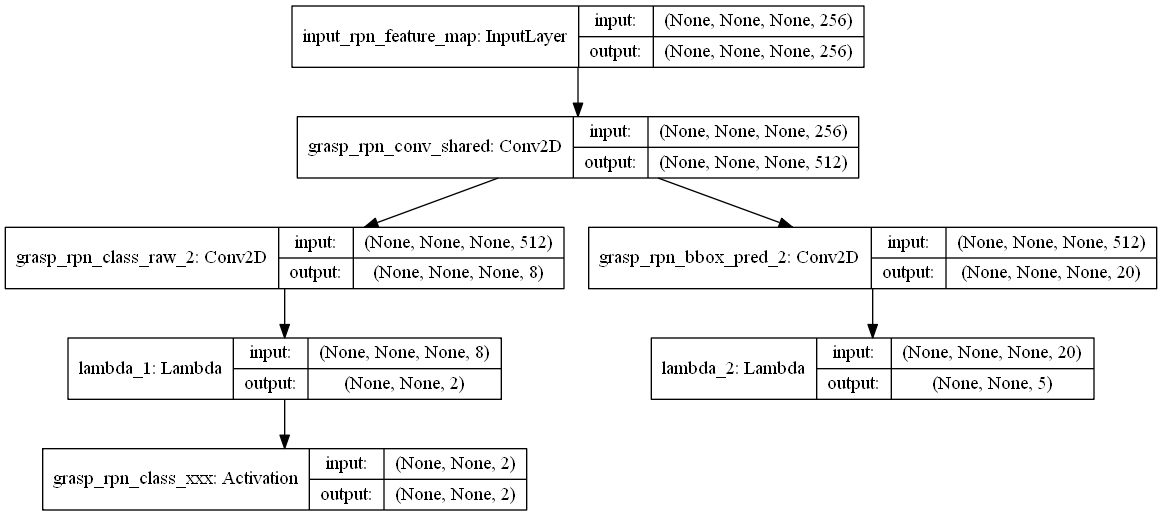
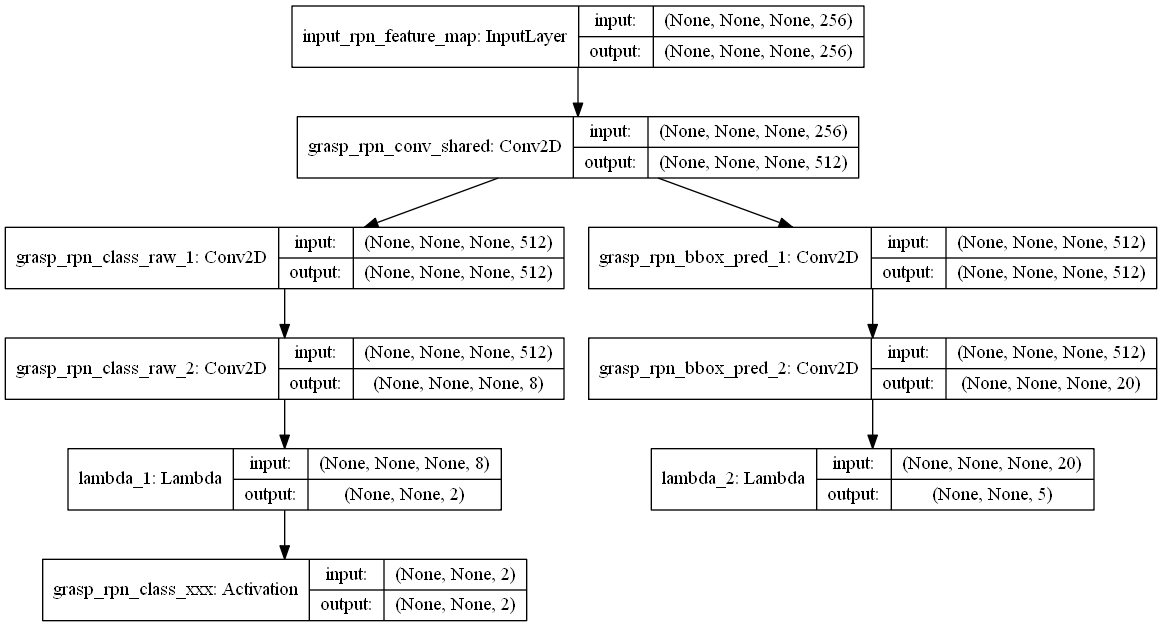
July 14, 2020 - code update for colab

Changed region(s): [[0.0, 0.0, 1.0, 0.9922]]

diff --git a/grasping_points.py b/grasping_points.py
@@ -27,8 +27,8 @@ class GraspingPointsConfig(Config):
     BACKBONE = "resnet50"
     GPU_COUNT = 1
     IMAGES_PER_GPU = 12
-    STEPS_PER_EPOCH = 51 # STEPS_PER_EPOCH * batch_size = data size
-    VALIDATION_STEPS = 11
+    STEPS_PER_EPOCH = 412 # STEPS_PER_EPOCH * batch_size = data size
+    VALIDATION_STEPS = 88
     NUM_CLASSES = 1 + 1 # Object and background classes
     # IMAGE_MIN_DIM = 288
     # IMAGE_MAX_DIM = 384
@@ -60,7 +60,7 @@ class GraspingPointsConfig(Config):
     RPN_OHEM_NUM_SAMPLES = 320
     LEARNING_RATE = 0.002
     LEARNING_MOMENTUM = 0.9
-    NUM_AUGMENTATIONS = 5
+    NUM_AUGMENTATIONS = 8
     WEIGHT_DECAY = 0.0002
     # NUM_AUGMENTATIONS = 5
 
@@ -585,8 +585,11 @@ class GraspingPointsDataset(Dataset):
         probabilities = np.delete(probabilities, invalid_y, axis=0)
 
         sorting_ix = np.argsort(probabilities[:, 1])[::-1][:10]
-        # top_boxes = all_boxes[probabilities[:,1] > 0.50]
-        # top_box_probabilities = probabilities[probabilities[:,1] > 0.50]
+        #
+        # top_boxes = all_boxes[probabilities[:,1] > 0.10]
+        # top_box_probabilities = probabilities[probabilities[:,1] > 0.10]
+        # top_boxes = all_boxes[probabilities[:,1] > 0.30]
+        # top_box_probabilities = probabilities[probabilities[:,1] > 0.30]
         top_boxes = all_boxes[sorting_ix]
         top_box_probabilities = probabilities[sorting_ix]
         top_boxes, top_box_probabilities, pre_nms_boxes, pre_nms_scores = self.orient_box_nms(top_boxes, top_box_probabilities)
@@ -633,7 +636,7 @@ mode = "grasping_points"
 
 training_dataset = GraspingPointsDataset()
 # training_dataset.construct_jacquard_dataset()
-training_dataset.load_dataset()
+training_dataset.load_dataset(augmentation=True)
 # training_dataset.load_dataset(dataset_dir='../../../Datasets/jacquard_dataset_resized', augmentation=True)
 training_dataset.prepare()
 # channel_means = np.array(training_dataset.get_channel_means())
@@ -641,12 +644,12 @@ training_dataset.prepare()
 
 validating_dataset = GraspingPointsDataset()
 # validating_dataset.load_dataset(dataset_dir='../../../Datasets/jacquard_dataset_resized', type='val_set', augmentation=True)
-validating_dataset.load_dataset(type='val_set')
+validating_dataset.load_dataset(type='val_set', augmentation=True)
 validating_dataset.prepare()
 
 testing_dataset = GraspingPointsDataset()
 # testing_dataset.load_dataset(dataset_dir='../../../Datasets/jacquard_dataset_resized', type='test_set', augmentation=True)
-testing_dataset.load_dataset(type='test_set')
+testing_dataset.load_dataset(type='test_set', augmentation=True)
 testing_dataset.prepare()
 
 # Create model in training mode
@@ -659,13 +662,13 @@ tf.keras.utils.plot_model(
 
 # Load weights
 # weights_path = MASKRCNN_MODEL_PATH
-weights_path = os.path.join(MODEL_DIR, "mask_rcnn_coco.h5")
-# weights_path = os.path.join(MODEL_DIR, 'train_#1b',"mask_rcnn_grasping_points_0088.h5")
-# model.load_weights(weights_path, by_name=True)
+# weights_path = os.path.join(MODEL_DIR, "mask_rcnn_coco.h5")
+weights_path = os.path.join(MODEL_DIR, 'train_#4',"mask_rcnn_grasping_points_0300.h5")
+model.load_weights(weights_path, by_name=True)
 # print("Loading weights ", weights_path)
-model.load_weights(weights_path, by_name=True,
-                       exclude=["conv1", "rpn_model", "rpn_class_logits",
-                                "rpn_class ", "rpn_bbox "])
+# model.load_weights(weights_path, by_name=True,
+#                        exclude=["conv1", "rpn_model", "rpn_class_logits",
+#                                 "rpn_class ", "rpn_bbox "])
 
 model.train(training_dataset, validating_dataset,
                learning_rate=config.LEARNING_RATE,
@@ -701,30 +704,31 @@ model.keras_model.save_weights(model_path)
 #                               config=inference_config, task="grasping_points")
 #
 # # Load weights
-# weights_path = os.path.join(MODEL_DIR, 'train_#1d',"mask_rcnn_grasping_points_0044.h5")
-# # weights_path = os.path.join(MODEL_DIR, 'train_id#29',"mask_rcnn_grasping_points_0011.h5")
+# # weights_path = os.path.join(MODEL_DIR, 'train_#5',"mask_rcnn_grasping_points_0444.h5")
+# weights_path = os.path.join(MODEL_DIR, 'train_#5',"mask_rcnn_grasping_points_0300.h5")
 # print("Loading weights ", weights_path)
 # model.load_weights(weights_path, by_name=True)
-# image_ids = random.choices(validating_dataset.image_ids, k=25)
+# dataset = validating_dataset
+# image_ids = random.choices(dataset.image_ids, k=25)
 # for image_id in image_ids:
 #     # validating_dataset.load_image(image_id, validating_dataset.image_info[image_id]['augmentation'])
 #     image, image_meta, gt_class_id, gt_bbox, gt_mask =\
-#         modellib.load_image_gt(validating_dataset, inference_config, image_id, use_mini_mask=False, mode='grasping_points')
+#         modellib.load_image_gt(dataset, inference_config, image_id, use_mini_mask=False, mode='grasping_points')
 #     results = model.detect([image], verbose=1, task=mode)
 #     r = results[0]
-#     post_nms_predictions, pre_nms_predictions = validating_dataset.refine_results(r, model.anchors)
+#     post_nms_predictions, pre_nms_predictions = dataset.refine_results(r, model.anchors)
 #     fig, (ax1, ax2) = plt.subplots(1, 2)
 #     ax1.imshow(image)
 #     ax2.imshow(image)
 #     for i, rect in enumerate(pre_nms_predictions):
-#         rect = validating_dataset.bbox_convert_to_four_vertices([rect])
+#         rect = dataset.bbox_convert_to_four_vertices([rect])
 #         p = patches.Polygon(rect[0], linewidth=1,edgecolor='r',facecolor='none')
 #         ax1.add_patch(p)
 #     for i, rect2 in enumerate(post_nms_predictions):
-#         rect2 = validating_dataset.bbox_convert_to_four_vertices([rect2])
+#         rect2 = dataset.bbox_convert_to_four_vertices([rect2])
 #         p2 = patches.Polygon(rect2[0], linewidth=1,edgecolor='g',facecolor='none')
 #         ax2.add_patch(p2)
-#     plt.title(validating_dataset.image_info[image_id]['path'])
+#     plt.title(dataset.image_info[image_id]['path'])
 #     plt.show(block=False)
 #
 # import code;

diff --git a/mrcnn/model.py b/mrcnn/model.py
@@ -1093,12 +1093,12 @@ def grasping_rpn_graph(feature_map, anchors_per_location, anchor_stride):
                        strides=anchor_stride,
                        name='grasp_rpn_conv_shared')(feature_map)
 
-    # classification_1 = KL.Conv2D(512, (3, 3), padding='same', activation='relu',
-    #               strides=anchor_stride,
-    #               name='grasp_rpn_class_raw_1')(shared)
+    classification_1 = KL.Conv2D(512, (3, 3), padding='same', activation='relu',
+                  strides=anchor_stride,
+                  name='grasp_rpn_class_raw_1')(shared)
     # Anchor Score. [batch, height, width, anchors per location * 2].
     classification_2 = KL.Conv2D(2 * anchors_per_location, (1, 1), padding='valid',
-                  activation='linear', name='grasp_rpn_class_raw_2')(shared)
+                  activation='linear', name='grasp_rpn_class_raw_2')(classification_1)
 
     # Reshape to [batch, anchors, 2]
     rpn_class_logits = KL.Lambda(
@@ -1110,11 +1110,11 @@ def grasping_rpn_graph(feature_map, anchors_per_location, anchor_stride):
 
     # Bounding box refinement. [batch, H, W, anchors per location * depth]
     # where depth is [dx, dy, log(dw), log(dh), dtheta]
-    # regression_1 = KL.Conv2D(512, (3, 3), padding='same', activation='relu',
-    #                    strides=anchor_stride,
-    #                    name='grasp_rpn_bbox_pred_1')(shared)
+    regression_1 = KL.Conv2D(512, (3, 3), padding='same', activation='relu',
+                       strides=anchor_stride,
+                       name='grasp_rpn_bbox_pred_1')(shared)
     regression_2 = KL.Conv2D(anchors_per_location * 5, (1, 1), padding="valid",
-                  activation='linear', name='grasp_rpn_bbox_pred_2')(shared)
+                  activation='linear', name='grasp_rpn_bbox_pred_2')(regression_1)
 
     # Reshape to [batch, anchors, 5]
     rpn_bbox = KL.Lambda(lambda t: tf.reshape(t, [tf.shape(t)[0], -1, 5]))(regression_2)
@@ -1385,19 +1385,19 @@ def smooth_l1_loss(y_true, y_pred):
 
 def rpn_combined_loss_graph_zhang_paper(config, target_bbox, target_class, rpn_bbox, rpn_class_logits, valid_anchor_mask):
     # Filtering anchors that cross the image boundary
-    valid_anchor_indices = tf.where(valid_anchor_mask)
-
-    target_bbox = tf.gather(target_bbox, valid_anchor_indices, axis=1)
-    target_bbox = tf.squeeze(target_bbox, axis=2)
-
-    target_class = tf.gather(target_class, valid_anchor_indices, axis=1)
-    target_class = tf.squeeze(target_class, axis=2)
-
-    rpn_bbox = tf.gather(rpn_bbox, valid_anchor_indices, axis=1)
-    rpn_bbox = tf.squeeze(rpn_bbox, axis=2)
-
-    rpn_class_logits = tf.gather(rpn_class_logits, valid_anchor_indices, axis=1)
-    rpn_class_logits = tf.squeeze(rpn_class_logits, axis=2)
+    # valid_anchor_indices = tf.where(valid_anchor_mask)
+    #
+    # target_bbox = tf.gather(target_bbox, valid_anchor_indices, axis=1)
+    # target_bbox = tf.squeeze(target_bbox, axis=2)
+    #
+    # target_class = tf.gather(target_class, valid_anchor_indices, axis=1)
+    # target_class = tf.squeeze(target_class, axis=2)
+    #
+    # rpn_bbox = tf.gather(rpn_bbox, valid_anchor_indices, axis=1)
+    # rpn_bbox = tf.squeeze(rpn_bbox, axis=2)
+    #
+    # rpn_class_logits = tf.gather(rpn_class_logits, valid_anchor_indices, axis=1)
+    # rpn_class_logits = tf.squeeze(rpn_class_logits, axis=2)
 
     # Squeeze last dim to simplify
     target_class = tf.squeeze(target_class, -1)
@@ -1423,7 +1423,7 @@ def rpn_combined_loss_graph_zhang_paper(config, target_bbox, target_class, rpn_b
     positive_indices = tf.where(K.equal(positive_class_mask, 1))
 
     values = tf.gather_nd(classification_loss, negative_indices)
-    negative_class_losses = tf.sparse.SparseTensor(negative_indices, values, [config.BATCH_SIZE, valid_anchor_mask.shape[0]])
+    negative_class_losses = tf.sparse.SparseTensor(negative_indices, values, [config.BATCH_SIZE, config.RPN_TRAIN_ANCHORS_PER_IMAGE])
     negative_class_losses = tf.sparse.to_dense(negative_class_losses)
 
     # Summing the top 3N negative elements in each row
@@ -3445,12 +3445,13 @@ class MaskRCNN():
         if task == 'grasping_points':
             train_generator = grasp_data_generator(train_dataset, self.config, shuffle=True,
                                              augmentation=augmentation,
-                                             online_augment = True,
+                                             pre_augment = True,
+                                             # online_augment= True,
                                              batch_size=self.config.BATCH_SIZE,
                                              no_augmentation_sources=no_augmentation_sources)
             val_generator = grasp_data_generator(val_dataset, self.config, shuffle=True,
                                            batch_size=self.config.BATCH_SIZE,
-                                           pre_augment= True)
+                                           pre_augment = True)
         else:
             train_generator = data_generator(train_dataset, self.config, shuffle=True,
                                              augmentation=augmentation,
